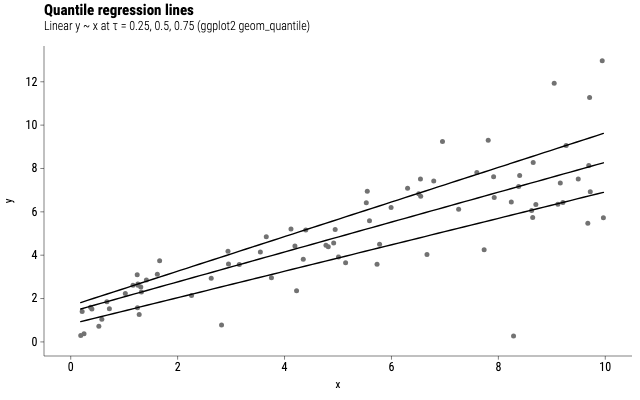
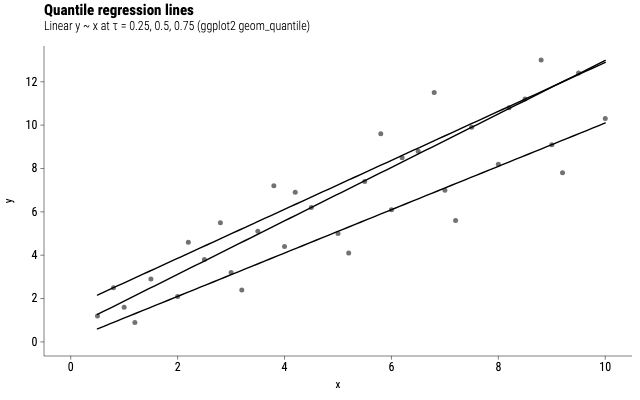
fix(#805): platform-stable quantile example data + seeds
Hand-authored fixed decimals (no Box–Muller RNG) so playground seed
fragments stay byte-identical on CI hosts; recapture gallery light.

diff --git a/examples/point/quantile-lines/data.ts b/examples/point/quantile-lines/data.ts
@@ -1,19 +1,42 @@
 /**
- * Synthetic scatter with fanning residual spread so quantile lines at 0.25 /
- * 0.5 / 0.75 separate visibly (seeded; no Math.random).
+ * Compact hand-authored scatter with increasing residual spread so the three
+ * default RQ lines (0.25 / 0.5 / 0.75) separate. Fixed decimals only — no
+ * floating RNG (playground seed fragments must be byte-stable across hosts).
  */
-import { mulberry32 } from "../../rng.js";
-
-function normal(rng: () => number): number {
-  // Box–Muller
-  const u = Math.max(1e-12, rng());
-  const v = rng();
-  return Math.sqrt(-2 * Math.log(u)) * Math.cos(2 * Math.PI * v);
-}
-
-const rng = mulberry32(805);
-export const fanningScatter: { x: number; y: number }[] = Array.from({ length: 80 }, () => {
-  const x = rng() * 10;
-  const y = 1 + 0.8 * x + normal(rng) * (0.4 + 0.25 * x);
-  return { x, y };
-});
+export const fanningScatter: { x: number; y: number }[] = [
+  { x: 0.5, y: 1.2 },
+  { x: 1, y: 1.6 },
+  { x: 1.5, y: 2.9 },
+  { x: 2, y: 2.1 },
+  { x: 2.5, y: 3.8 },
+  { x: 3, y: 3.2 },
+  { x: 3.5, y: 5.1 },
+  { x: 4, y: 4.4 },
+  { x: 4.5, y: 6.2 },
+  { x: 5, y: 5.0 },
+  { x: 5.5, y: 7.4 },
+  { x: 6, y: 6.1 },
+  { x: 6.5, y: 8.8 },
+  { x: 7, y: 7.0 },
+  { x: 7.5, y: 9.9 },
+  { x: 8, y: 8.2 },
+  { x: 8.5, y: 11.2 },
+  { x: 9, y: 9.1 },
+  { x: 9.5, y: 12.4 },
+  { x: 10, y: 10.3 },
+  { x: 1.2, y: 0.9 },
+  { x: 2.2, y: 4.6 },
+  { x: 3.2, y: 2.4 },
+  { x: 4.2, y: 6.9 },
+  { x: 5.2, y: 4.1 },
+  { x: 6.2, y: 8.5 },
+  { x: 7.2, y: 5.6 },
+  { x: 8.2, y: 10.8 },
+  { x: 9.2, y: 7.8 },
+  { x: 0.8, y: 2.5 },
+  { x: 3.8, y: 7.2 },
+  { x: 6.8, y: 11.5 },
+  { x: 2.8, y: 5.5 },
+  { x: 5.8, y: 9.6 },
+  { x: 8.8, y: 13.0 },
+];
